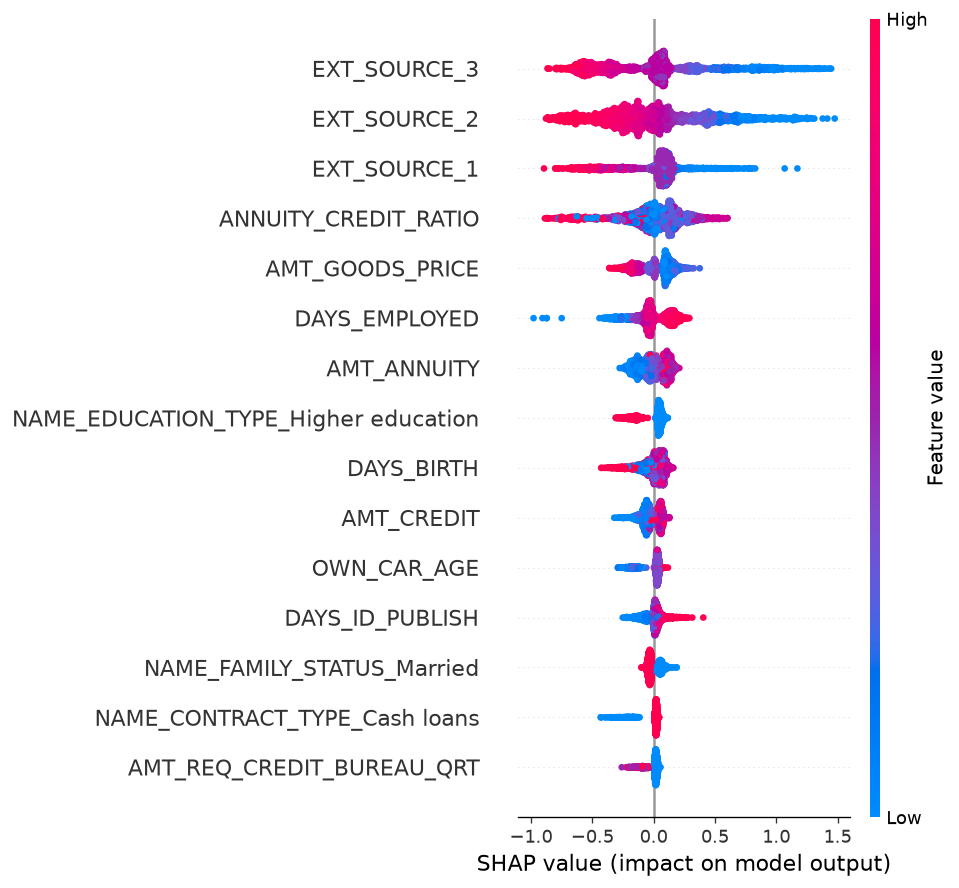
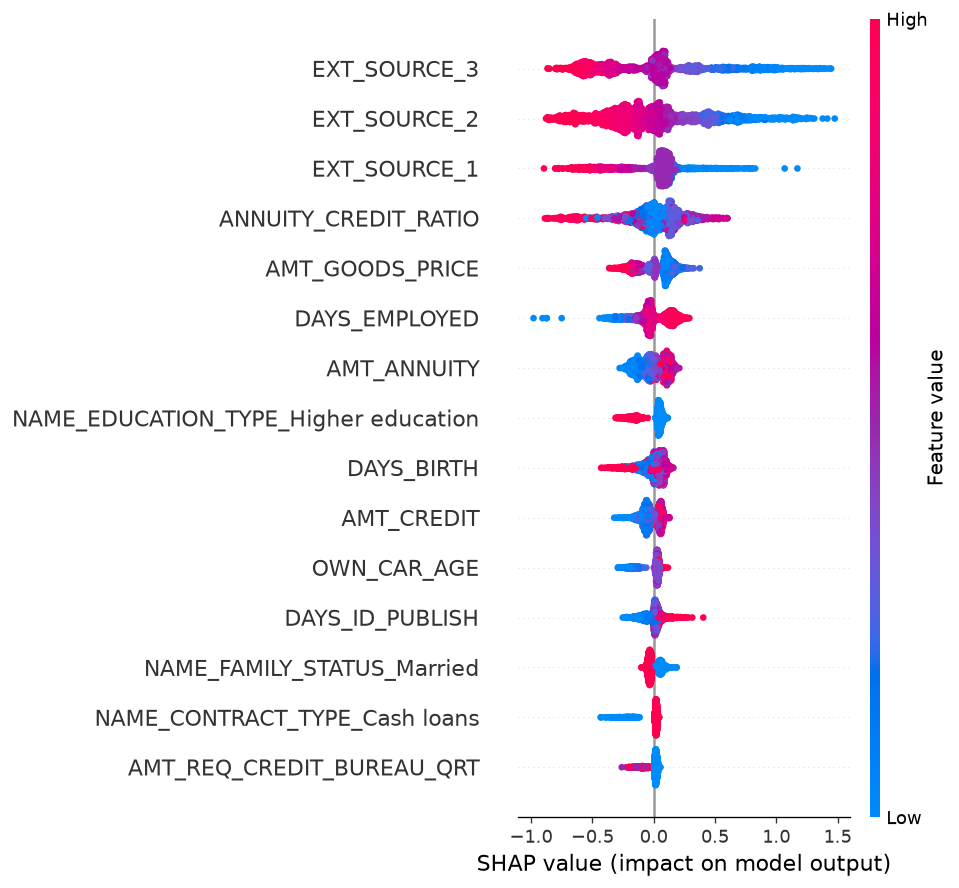
reports: regenerate metrics, gender check and SHAP plot after the retrofit
Reran `python -m credit_risk_scorecard.model` and `.gender_check` against the
real data/application_train.csv, now that ROOT and the eval wiring are fixed.
Diffed against the pre-retrofit baseline saved outside the repo (ADR 0001):
every number matches except runtime_seconds (149.3s -> 164.9s, excluded from
the no-number-changed rule) and the module path quoted in each file's header
(src.model -> credit_risk_scorecard.model, expected from the layout move).
reports/figures/shap_summary.png is the same plot, regenerated from the same
SHAP values.

diff --git a/reports/gender_check.md b/reports/gender_check.md
@@ -1,6 +1,6 @@
 # Taking CODE_GENDER out of the model
 
-Generated by `python -m src.gender_check`. Same 60/20/20 split as `python -m src.model`. Each model is judged at its own threshold for declining the riskiest 20% (set on the calibration split). All numbers are on the test split.
+Generated by `python -m credit_risk_scorecard.gender_check`. Same 60/20/20 split as `python -m credit_risk_scorecard.model`. Each model is judged at its own threshold for declining the riskiest 20% (set on the calibration split). All numbers are on the test split.
 
 ## Decisions for women and men
 

diff --git a/reports/results.md b/reports/results.md
@@ -1,6 +1,6 @@
 # Results
 
-Generated by `python -m src.model`. Do not edit by hand.
+Generated by `python -m credit_risk_scorecard.model`. Do not edit by hand.
 
 Rows used: 307,511 (train 184,506 / calibration 61,502 / test 61,503). Default rate 8.07%. 244 features after one-hot encoding. Kept out of the model (used only for the group check): CODE_GENDER.
 
@@ -82,4 +82,4 @@ LGD 45%, EAD = AMT_CREDIT. Approved share 80.5%.
 9. `DAYS_BIRTH` (0.066)
 10. `AMT_CREDIT` (0.060)
 
-Run time: 149.3 s.
+Run time: 164.9 s.
